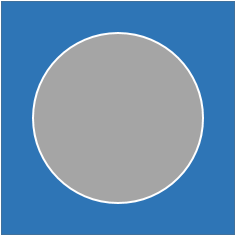
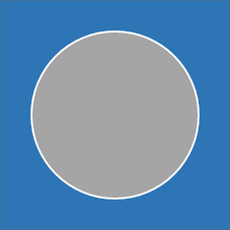
Ajust images size Various improvements

diff --git a/Connect4/Connect4/GameGrid.cs b/Connect4/Connect4/GameGrid.cs
@@ -94,9 +94,21 @@ namespace Connect4
         public delegate void dlgOnColumnFull(int p_ColumnIndex);
         public static dlgOnColumnFull OnColumnFull;
 
-        public void AddTokenToGrid()
+        public void AddTokenToGrid(Object p_Player, int p_ColumnPlayed)
         {
+            int LinePlayed = GetNextPossibleLine(p_ColumnPlayed);
 
+            if (p_Player is HumanPlayer)
+            {
+                ArrayOfCells[LinePlayed, p_ColumnPlayed].IsYellow = true;
+            }
+            else
+            {
+                if (p_Player is AIPlayer)
+                {
+                    ArrayOfCells[LinePlayed, p_ColumnPlayed].IsRed = true;
+                }
+            }
         }
 
         public int GetNextPossibleLine(int p_ColumnPlayed)

diff --git a/Connect4/Connect4/HumanPlayer.cs b/Connect4/Connect4/HumanPlayer.cs
@@ -1,10 +1,10 @@
 namespace Connect4
 {
-    class HumanPlayer
+    class HumanPlayer : Connect4Player
     {
         private bool m_HasPlayed = new bool();
 
-        public bool HasPlayed
+        bool HasPlayed
         {
             get
             {
@@ -16,16 +16,9 @@
             }
         }
 
-        public void Play(GameGrid p_GameGrid, int p_ColumnPlayed)
+        public override void Play(GameGrid p_GameGrid, int p_ColumnPlayed)
         {
-            int LinePlayed = p_GameGrid.GetNextPossibleLine(p_ColumnPlayed);
 
-            p_GameGrid.ArrayOfCells[LinePlayed, p_ColumnPlayed].IsYellow = true;
-
-            if (LinePlayed == p_GameGrid.NumberOfLines - 1)
-            {
-                
-            }
         }
     }
 }

diff --git a/Connect4/Connect4/AIPlayer.cs b/Connect4/Connect4/AIPlayer.cs
@@ -1,19 +1,12 @@
 namespace Connect4
 {
-    class AIPlayer
+    class AIPlayer : Connect4Player
     {
-        public delegate void dlgOnColumnFull(int p_ColumnIndex);
-        public static dlgOnColumnFull OnColumnFull;
 
-        public void Play(GameGrid p_GameGrid, int p_ColumnPlayed)
+        public override void Play(GameGrid p_GameGrid, int p_ColumnPlayed)
         {
 
             int LinePlayed = p_GameGrid.GetNextPossibleLine(p_ColumnPlayed);
-
-            if (LinePlayed == p_GameGrid.NumberOfLines - 1)
-            {
-                OnColumnFull(p_ColumnPlayed);
-            }
 
         }
 

diff --git a/Connect4/Connect4/MainWindow.xaml.cs b/Connect4/Connect4/MainWindow.xaml.cs
@@ -26,8 +26,8 @@ namespace Connect4
             // Delegate for ColumnButton.onClick event.
             ColumnButton.OnButtonClicked += new ColumnButton.dlgOnButtonClicked(OnButtonClicked);
 
-            HumanPlayer.OnColumnFull += new HumanPlayer.dlgOnColumnFull(OnColumnFull);
-            AIPlayer.OnColumnFull += new AIPlayer.dlgOnColumnFull(OnColumnFull);
+            //HumanPlayer.OnColumnFull += new HumanPlayer.dlgOnColumnFull(OnColumnFull);
+            //AIPlayer.OnColumnFull += new AIPlayer.dlgOnColumnFull(OnColumnFull);
         }
 
         public void OnButtonClicked(int p_ColumnIndex)

diff --git a/Connect4/Connect4/Cell.xaml.cs b/Connect4/Connect4/Cell.xaml.cs
@@ -5,7 +5,7 @@ namespace Connect4
     /// <summary>
     /// The game is composed of a number of cells that contain either a yellow token, a red one or nothing
     /// </summary>
-    public partial class Cell : UserControl
+    partial class Cell : UserControl
     {
         /// <summary>
         /// True if the cell is occupied by a red token

diff --git a/Connect4/Connect4/ColumnButton.xaml.cs b/Connect4/Connect4/ColumnButton.xaml.cs
@@ -6,7 +6,7 @@ namespace Connect4
     /// <summary>
     /// Interaction logic for ColumnButton.xaml
     /// </summary>
-    public partial class ColumnButton : UserControl
+    partial class ColumnButton : UserControl
     {
         private int m_ColumnIndex = new int();
 

diff --git a/Connect4/Connect4/Connect4Player.cs b/Connect4/Connect4/Connect4Player.cs
@@ -1,0 +1,7 @@
+namespace Connect4
+{
+    abstract class Connect4Player
+    {
+        public abstract void Play(GameGrid p_GameGrid, int p_ColumnPlayed);
+    }
+}
